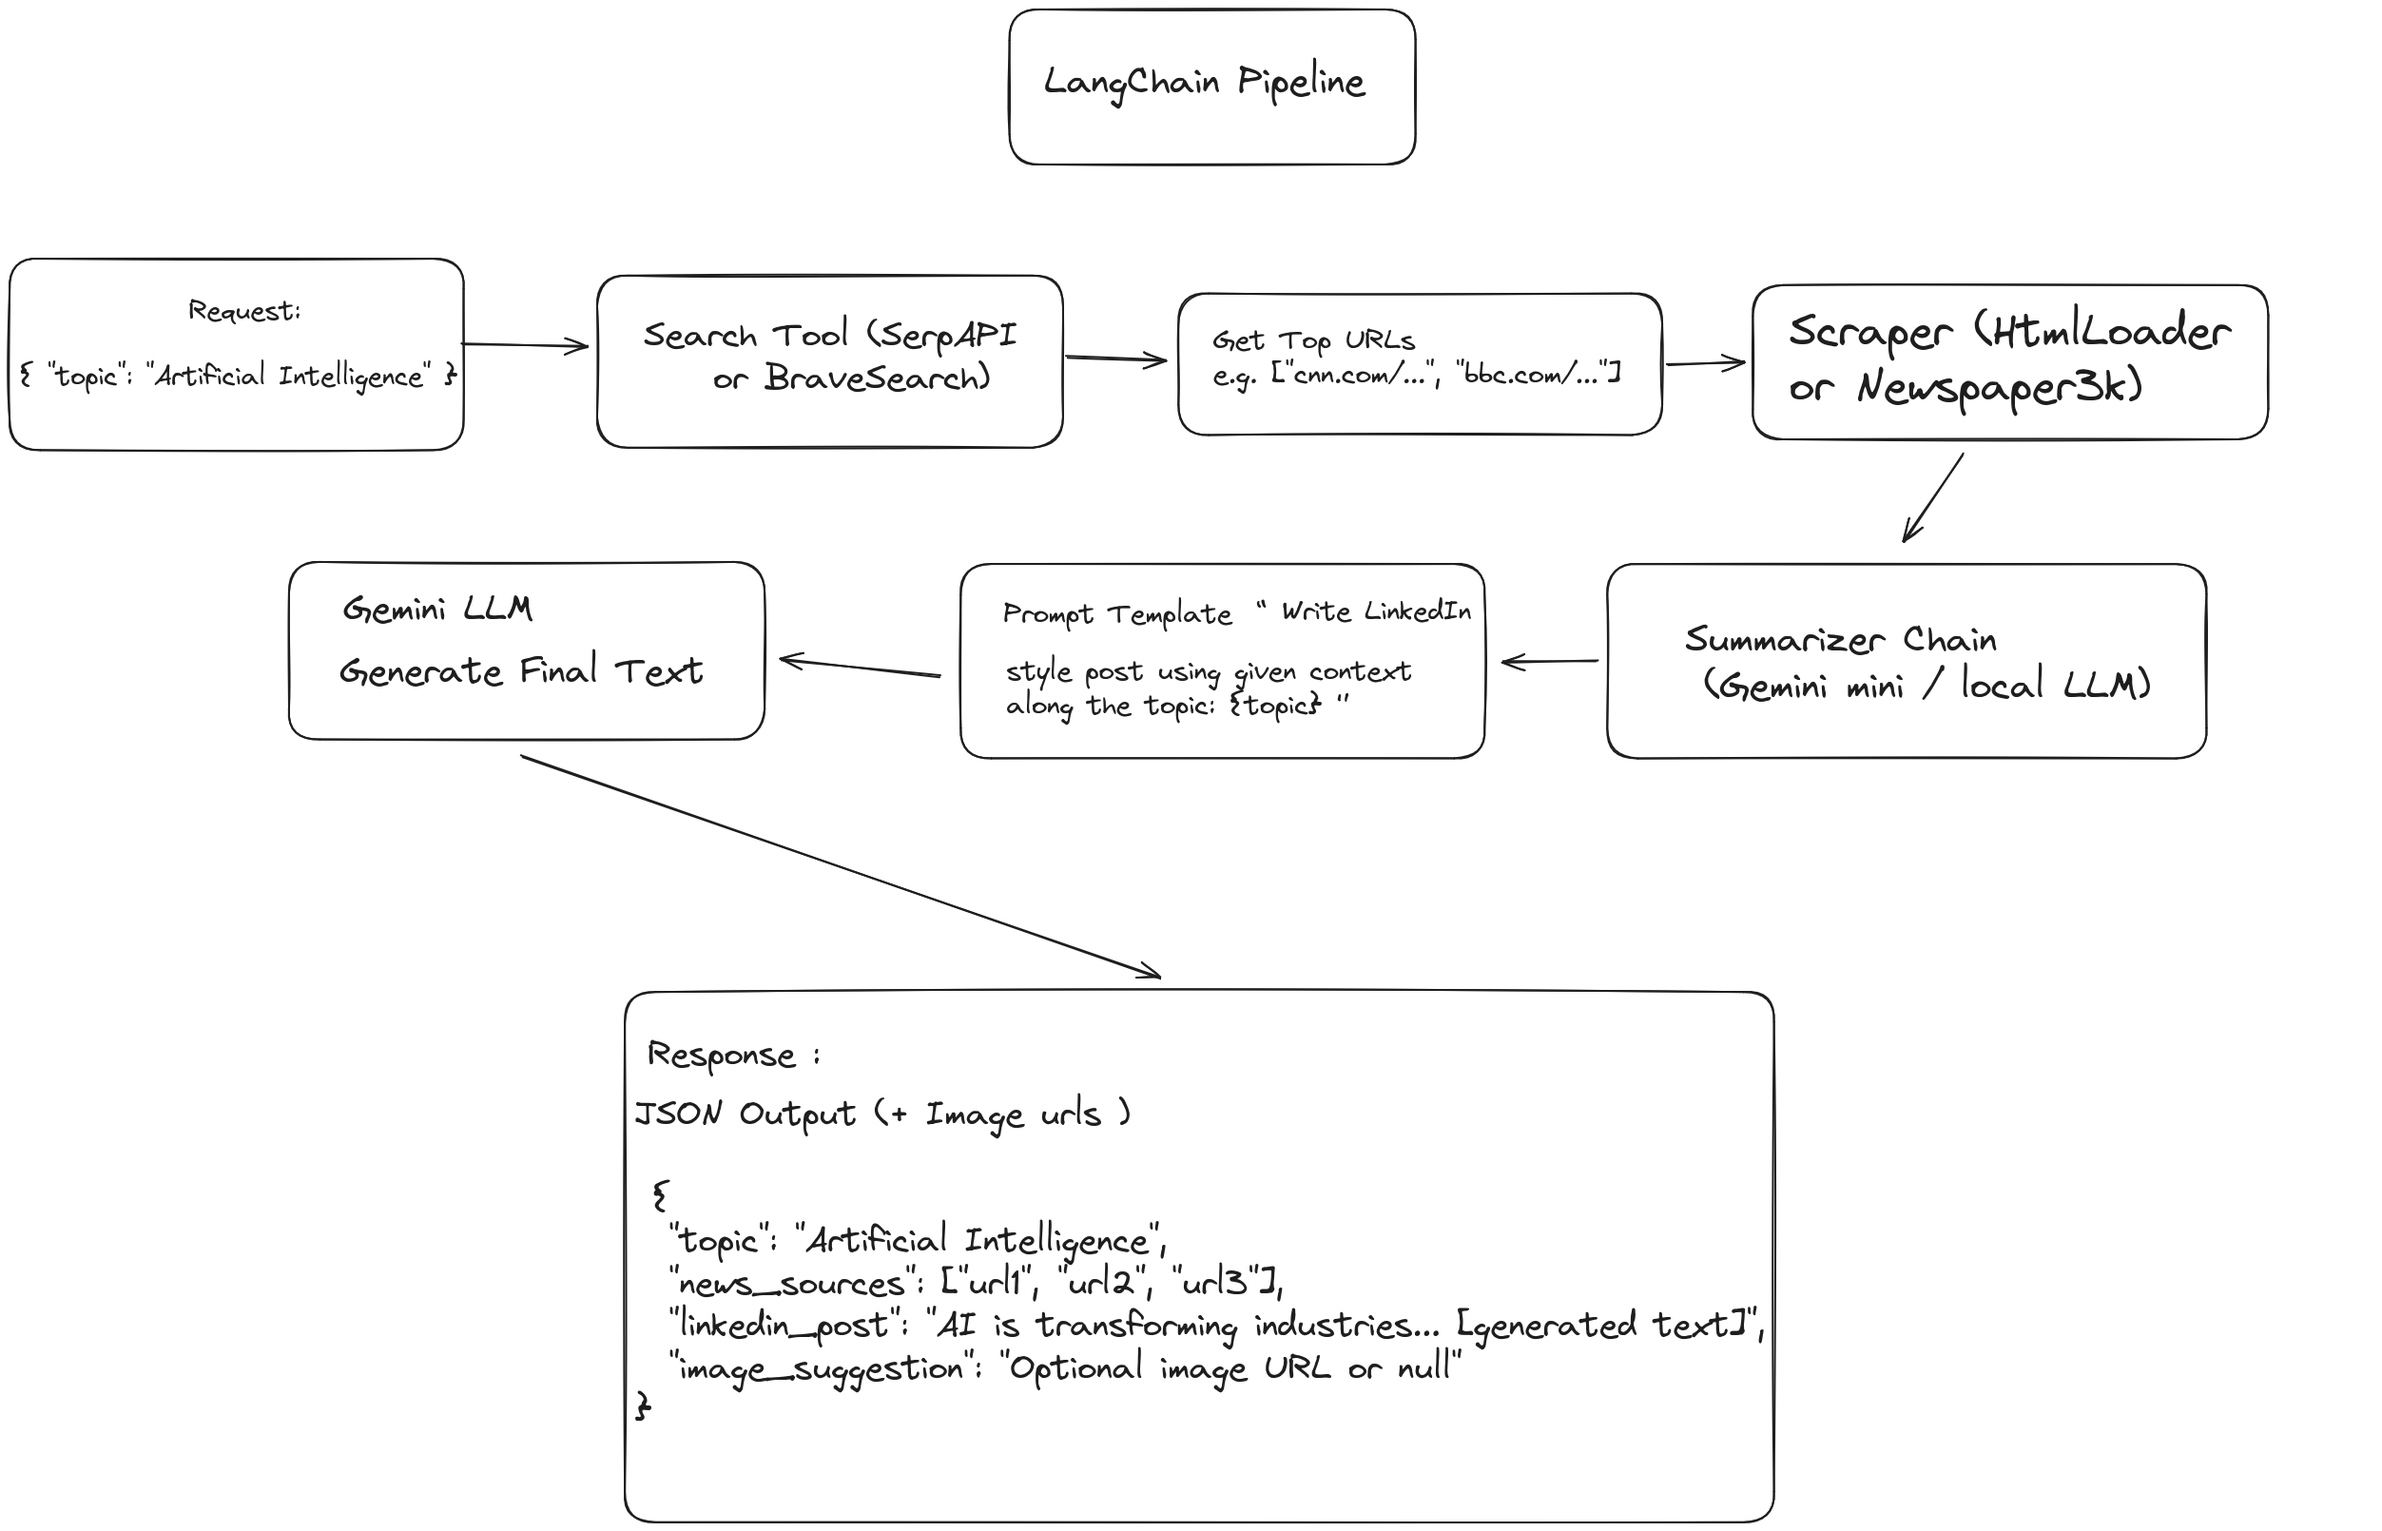
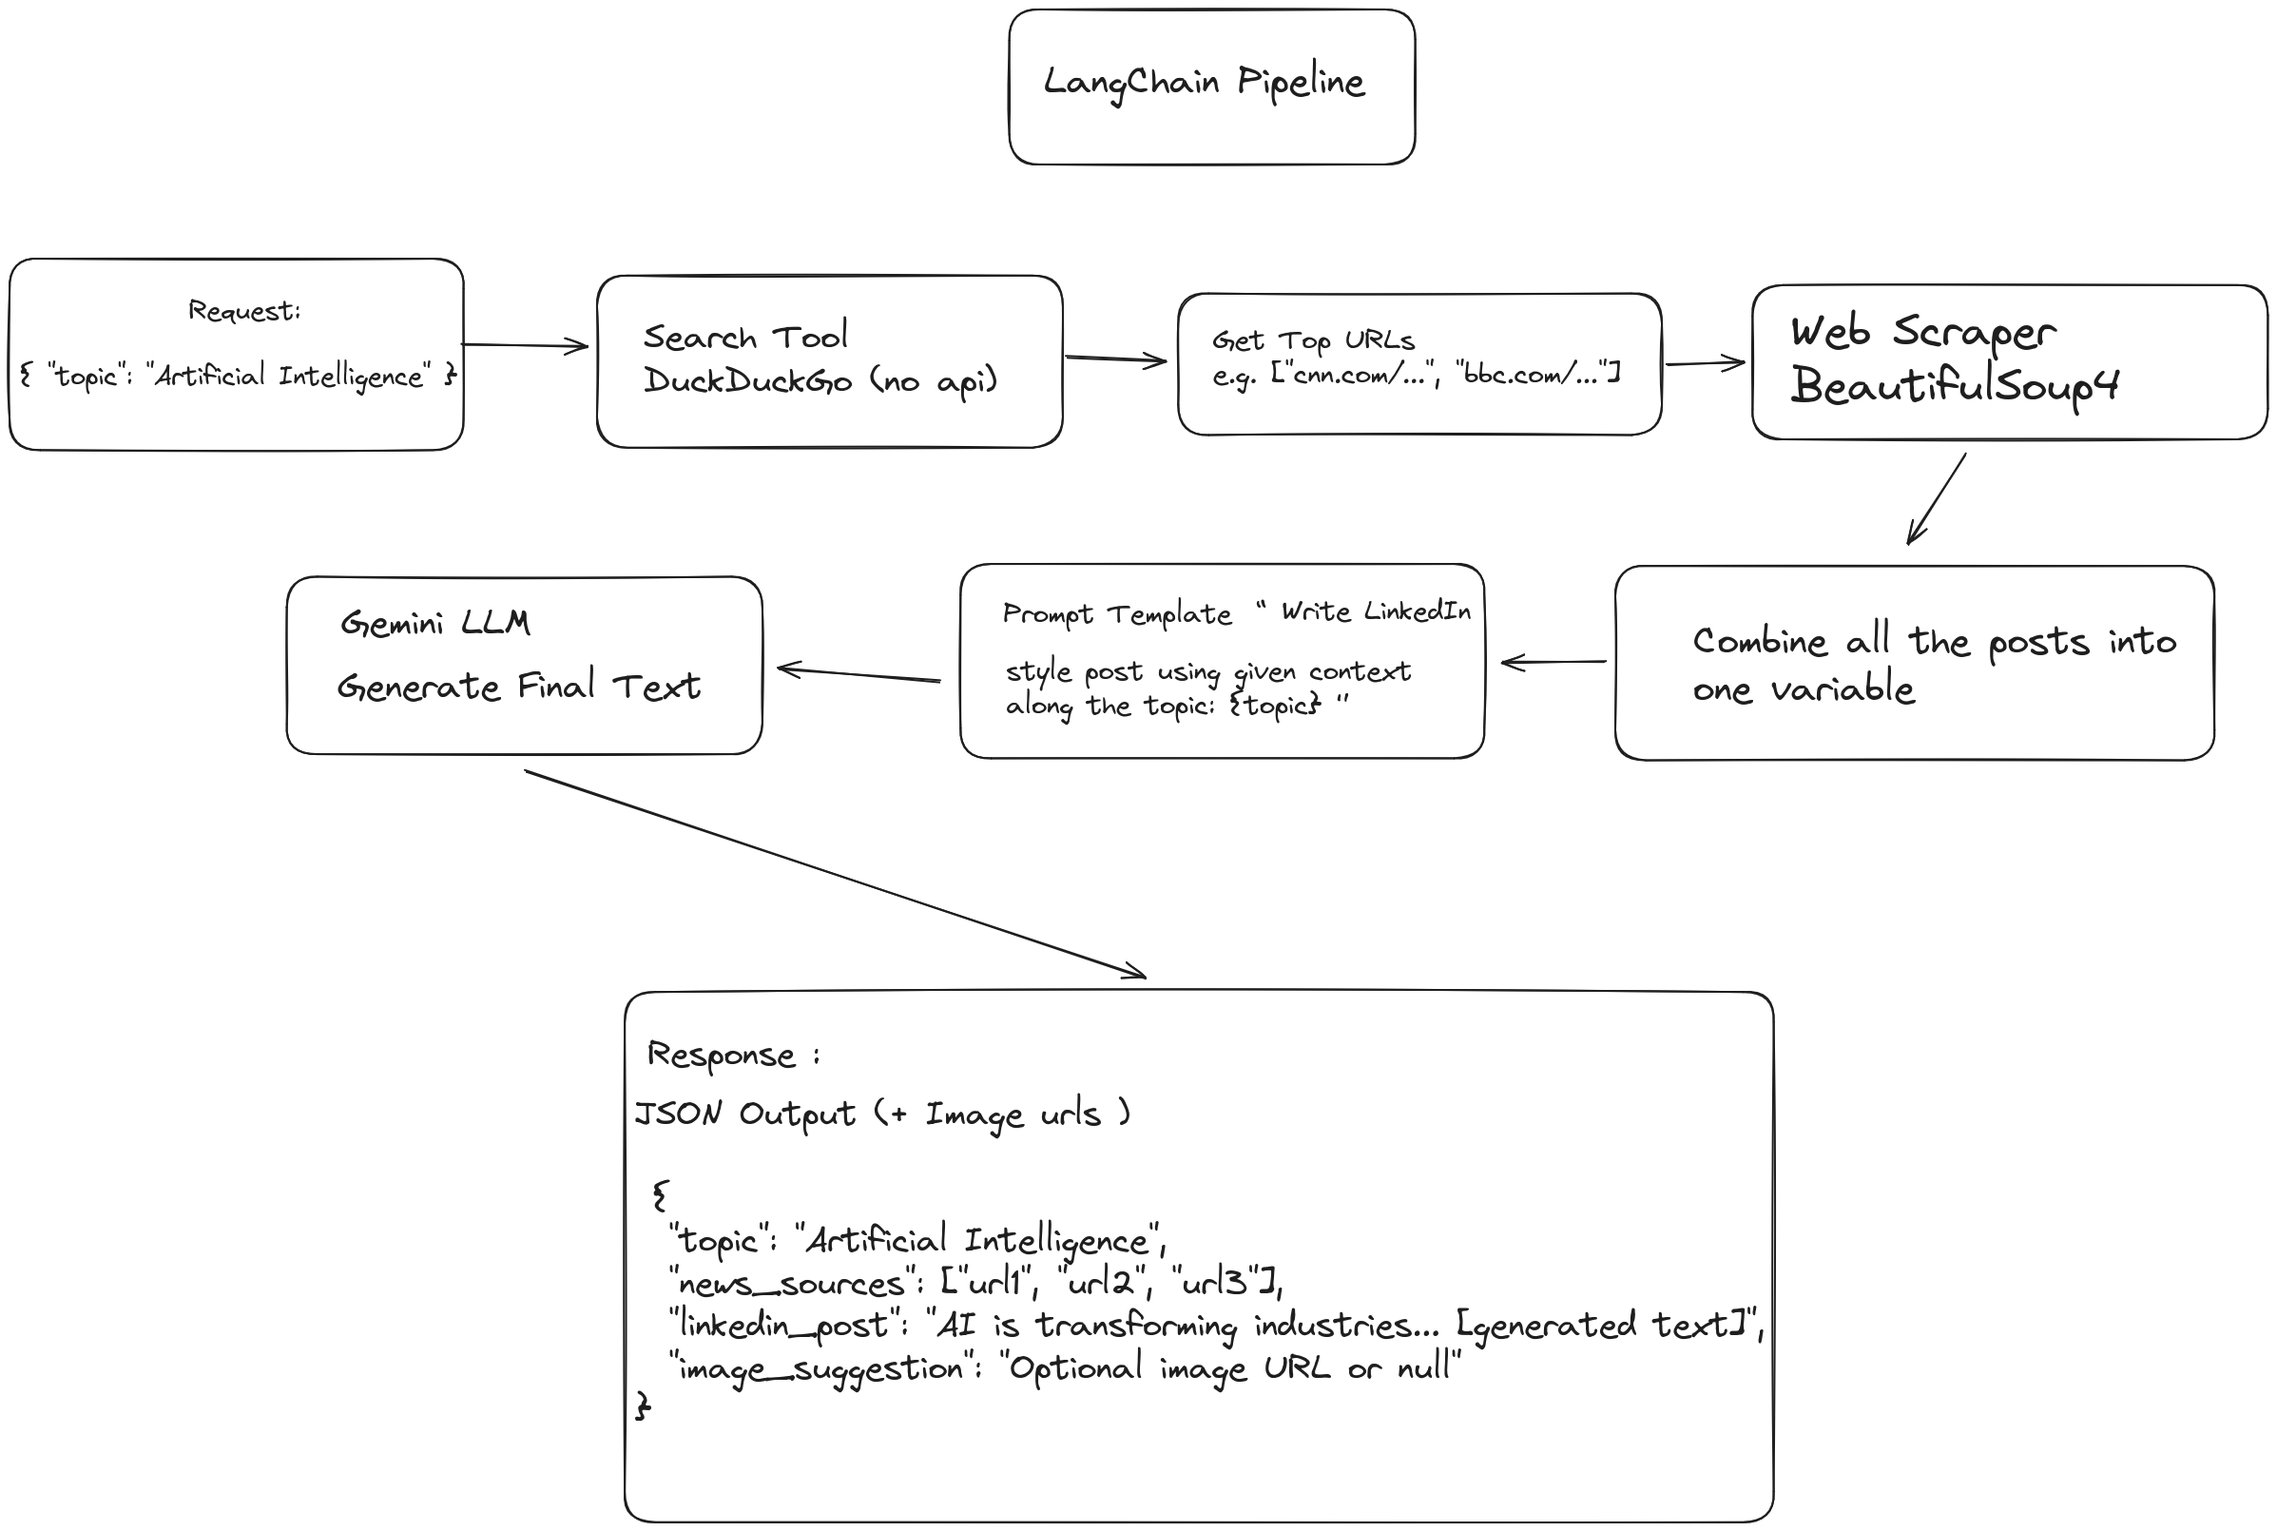
first

diff --git a/README.md b/README.md
@@ -1,0 +1,141 @@
+
+# **Demanual AI - LinkedIn Post Generator**
+
+Demanual AI is a FastAPI-based application that automatically generates professional LinkedIn posts based on recent news articles related to a given topic. It scrapes relevant news, summarizes the content using a Google Gemini AI model, and provides a concise post along with a creative image suggestion.
+
+---
+
+## Features
+
+- Accepts a topic and searches for recent news/articles.
+    
+- Scrapes the main textual content from the top links.
+    
+- Uses a Large Language Model (Google Gemini) to summarize content.
+    
+- Generates a professional LinkedIn post in a clear and engaging format.
+    
+- Provides a short, creative image suggestion for visual enhancement.
+    
+- Built with FastAPI and supports CORS for front-end integration.
+    
+
+---
+
+## Requirements
+
+- Python 3.11+
+    
+- FastAPI
+    
+- Pydantic
+    
+- LangChain (`langchain`, `langchain_core`, `langchain_community`)
+    
+- Requests
+    
+- BeautifulSoup4
+    
+- python-dotenv
+    
+- Uvicorn (for running locally)
+    
+
+---
+
+## Installation
+
+1. Clone the repository:
+    
+    ```bash
+    git clone <repo_url>
+    cd demanual-ai
+    ```
+    
+2. Create a virtual environment and install dependencies:
+    
+    ```bash
+    python -m venv venv
+    source venv/bin/activate   # Linux/macOS
+    venv\Scripts\activate      # Windows
+    
+    pip install fastapi uvicorn requests beautifulsoup4 python-dotenv langchain langchain_core langchain_community
+    ```
+    
+3. Create a `.env` file in the root folder and add your API keys:
+    
+    ```env
+    GOOGLE_API_KEY=your_google_api_key_here
+    ```
+    
+
+---
+
+## Usage
+
+1. Run the FastAPI server locally, or access the deployed links `/docs`  SwaggerUI :
+    
+    ```bash
+    python main.py
+    ```
+    
+    The API will be accessible at: `http://localhost:8000` for localhosting
+    
+2. Send a POST request to `/generate-post` with a JSON body containing the topic:
+    
+    ```json
+    {
+        "topic": "Artificial Intelligence in Healthcare"
+    }
+    ```
+    
+3. The response will include:
+    
+    - `topic`: The requested topic.
+        
+    - `news_sources`: List of URLs scraped for content.
+        
+    - `linkedin_post`: The generated professional LinkedIn post including an image suggestion.
+        
+
+---
+
+## Example Response
+
+```json
+{
+  "topic": "Artificial Intelligence in Healthcare",
+  "news_sources": [
+    "https://example.com/article1",
+    "https://example.com/article2"
+  ],
+  "linkedin_post": "LinkedIn Post: [Post content generated by AI] \nImage Suggestion: [Creative image suggestion]"
+}
+```
+
+---
+
+## Project Structure
+
+```
+├── main.py          # FastAPI server and endpoint
+├── requirements.txt # Optional: for pip install
+├── client.py (or html) # Optional: UI for ease of access (comming)
+├── .env             # Environment variables (user needs to define)
+├── README.md        # Project documentation
+```
+
+---
+## Process flow
+![flow](flow.png)
+--- 
+## Notes
+
+- The application uses `DuckDuckGoSearchResults` to find relevant links.
+    
+- `BeautifulSoup` is used to scrape textual content from the pages.
+    
+- The LLM (Google Gemini 2.5) summarizes articles and generates posts.
+    
+- Designed for local testing; deploy on a server for production use.
+    
